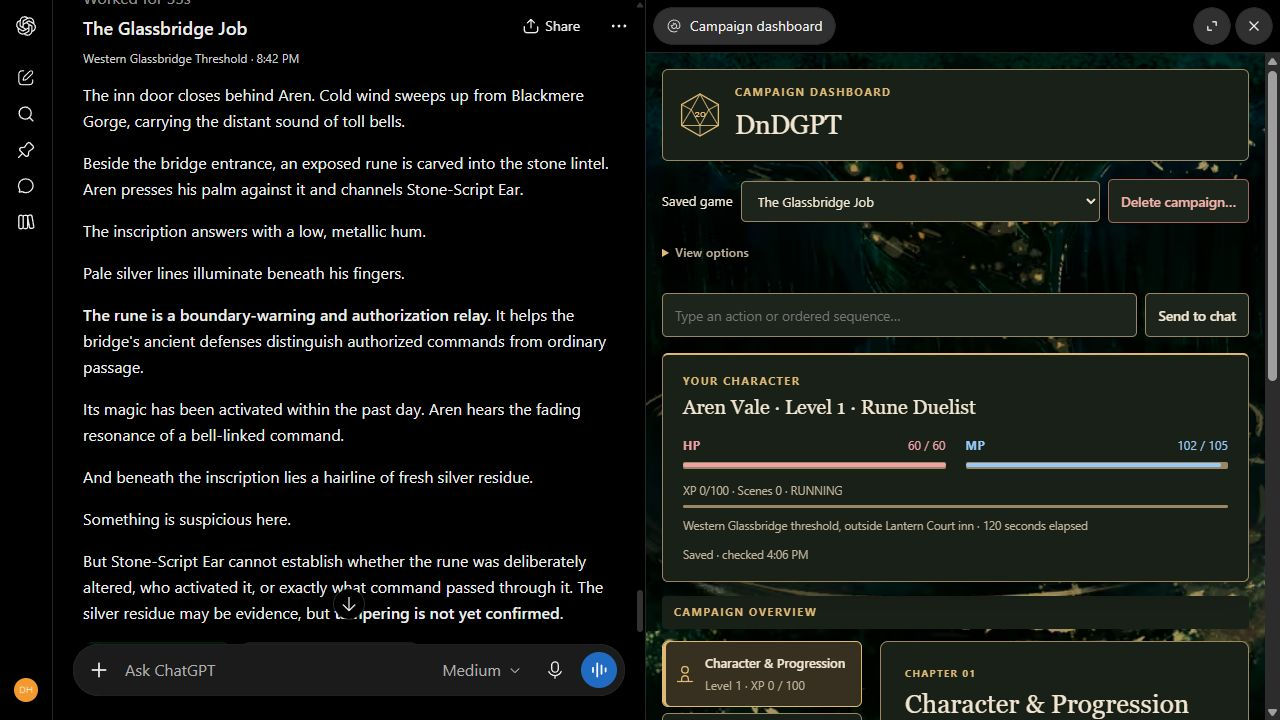
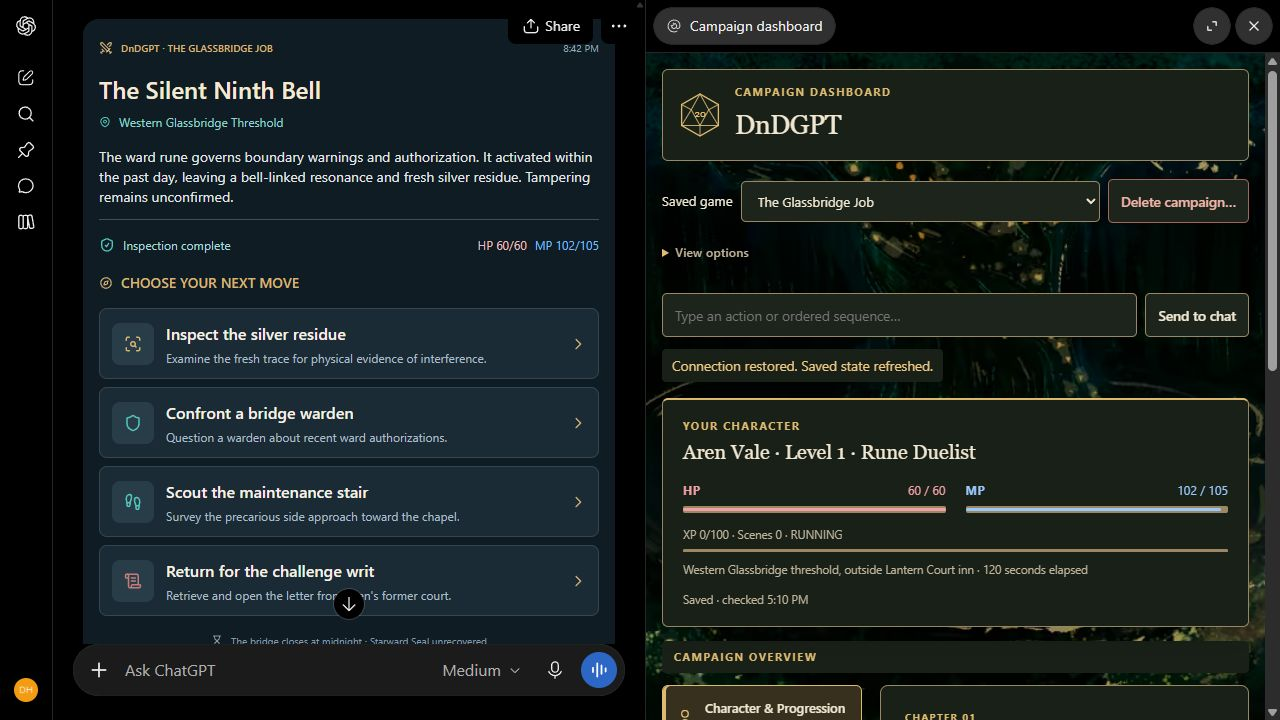
Show native Intelligent UI beside the campaign dashboard

diff --git a/docs/index.html b/docs/index.html
@@ -11,14 +11,14 @@
   <meta property="og:title" content="DnDGPT | Your next adventure. A GM in your chat.">
   <meta property="og:description" content="ChatGPT creates your classes, abilities and story. DnDGPT keeps your character and campaign together in a saved dashboard beside the conversation.">
   <meta property="og:url" content="https://deonholo.github.io/DnDGPT/">
-  <meta property="og:image" content="https://deonholo.github.io/DnDGPT/images/chatgpt-side-by-side.png?v=2e97658e179a">
+  <meta property="og:image" content="https://deonholo.github.io/DnDGPT/images/chatgpt-side-by-side.png?v=6089bb82208f">
   <meta property="og:image:width" content="1280">
   <meta property="og:image:height" content="720">
-  <meta property="og:image:alt" content="ChatGPT beside DnDGPT's saved campaign dashboard, with the Glowwood fantasy atmosphere.">
+  <meta property="og:image:alt" content="ChatGPT's Intelligent UI choices beside DnDGPT's saved campaign dashboard, with the Glowwood fantasy atmosphere.">
   <meta name="twitter:card" content="summary_large_image">
   <meta name="twitter:title" content="DnDGPT | Your next adventure. A GM in your chat.">
   <meta name="twitter:description" content="A fantasy RPG MCP app for ChatGPT, with original classes, freeform play and a saved campaign dashboard.">
-  <meta name="twitter:image" content="https://deonholo.github.io/DnDGPT/images/chatgpt-side-by-side.png?v=2e97658e179a">
+  <meta name="twitter:image" content="https://deonholo.github.io/DnDGPT/images/chatgpt-side-by-side.png?v=6089bb82208f">
   <link rel="canonical" href="https://deonholo.github.io/DnDGPT/">
   <link rel="icon" href="images/dndgpt-logo-dark.png">
   <link rel="preconnect" href="https://api.fontshare.com">
@@ -54,7 +54,7 @@
       <div class="capture-gallery" aria-label="DnDGPT screenshots">
         <div class="gallery-controls" role="group" aria-label="Choose a screenshot"><button class="view-button" aria-pressed="true" data-view="conversation">In ChatGPT</button><button class="view-button" aria-pressed="false" data-view="standalone">Classic dashboard</button></div>
         <figure class="preview capture" id="conversation-view">
-          <a href="images/chatgpt-side-by-side.png?v=2e97658e179a" aria-label="Open full-size ChatGPT and DnDGPT screenshot"><img src="images/chatgpt-side-by-side.png?v=2e97658e179a" alt="ChatGPT's conversation on the left, with DnDGPT's saved campaign dashboard and Glowwood fantasy background on the right" width="1280" height="720" loading="lazy"></a>
+          <a href="images/chatgpt-side-by-side.png?v=6089bb82208f" aria-label="Open full-size ChatGPT and DnDGPT screenshot"><img src="images/chatgpt-side-by-side.png?v=6089bb82208f" alt="ChatGPT's native Intelligent UI event cards on the left, with DnDGPT's saved campaign dashboard and Glowwood fantasy background on the right" width="1280" height="720" loading="lazy"></a>
           <figcaption><span>Your conversation and campaign, side by side.</span><span>Choose from 33 reading atmospheres, including Classic, Quiet Ink and fantasy artwork. Interface details may vary.</span></figcaption>
         </figure>
         <figure class="preview capture" id="standalone-view" hidden>

diff --git a/README.md b/README.md
@@ -123,7 +123,7 @@ For other approaches to AI campaigns and MCP games, see [related projects](docs/
 
 The standalone dashboard preview uses disposable sample data and the default Classic colors.
 
-![ChatGPT's conversation beside the saved DnDGPT campaign dashboard with a fantasy atmosphere](docs/images/chatgpt-side-by-side.png)
+![ChatGPT's native Intelligent UI event cards beside the saved DnDGPT campaign dashboard with the Glowwood atmosphere](docs/images/chatgpt-side-by-side.png)
 
 Your conversation and campaign, side by side. Choose from **33 reading atmospheres**, including Classic, Quiet Ink and credited fantasy artwork. Interface details may vary.
 
